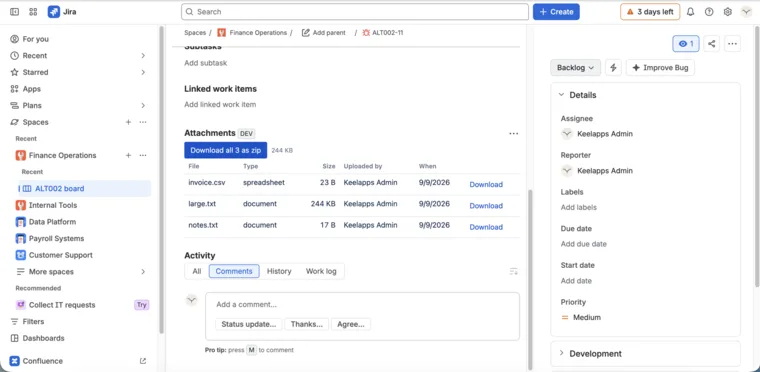
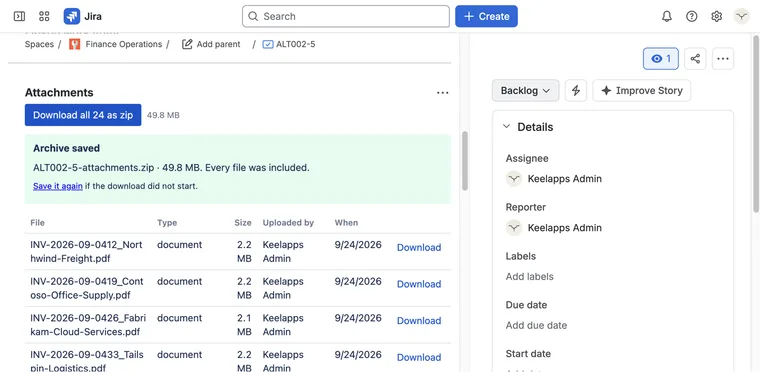
Satchel for Jira's page opens on the product demo
The showcase is the click-to-load player for FPh4vmKqxnw, with the production screenshot as its poster — the old image was the development install, with its DEV badge and three test files. The VideoObject gives the home card its demo length.

diff --git a/satchel/index.html b/satchel/index.html
@@ -52,6 +52,15 @@
           "@type": "Organization",
           "name": "Keelapps",
           "url": "https://keelapps.app/"
+        },
+        "video": {
+          "@type": "VideoObject",
+          "name": "Satchel for Jira — download every attachment as one zip",
+          "description": "Zip every attachment on a Jira issue, a JQL result or a whole project, foldered by issue key. Then see what is in there: duplicate candidates, storage by uploader, the biggest files, CSV. The archive is built in your browser.",
+          "thumbnailUrl": "https://keelapps.app/assets/screenshots/satchel-issue-panel.png",
+          "uploadDate": "2026-09-24T20:58:09+03:00",
+          "duration": "PT1M7S",
+          "embedUrl": "https://www.youtube-nocookie.com/embed/FPh4vmKqxnw"
         }
       }
     </script>
@@ -131,15 +140,22 @@
       </section>
 
       <figure class="showcase" id="demo">
-        <img
-          src="/assets/screenshots/satchel-issue-panel.png"
+        <iframe
+          class="showcase__player"
+          src="https://www.youtube-nocookie.com/embed/FPh4vmKqxnw"
+          srcdoc="<style>*{margin:0;padding:0}html,body{height:100%;overflow:hidden;background:#0F2536}a{display:block;height:100%;position:relative}img{display:block;width:100%;height:100%;object-fit:cover}span{position:absolute;inset:0;margin:auto;width:5rem;height:5rem;border-radius:50%;background:rgba(15,37,54,.86);color:#F4EFE6;display:grid;place-items:center;font:2rem/1 sans-serif}a:hover span{background:rgba(15,37,54,1)}</style><a href='https://www.youtube-nocookie.com/embed/FPh4vmKqxnw?autoplay=1' aria-label='Play the Satchel for Jira product demo'><img src='/assets/screenshots/satchel-issue-panel.png' alt=''><span>&#9654;</span></a>"
           width="1840"
           height="900"
-          alt="The Satchel panel on a Jira issue listing forty-five attachments with sizes and a single Download all as zip button"
-          decoding="async"
-        />
+          title="Satchel for Jira — download every attachment as one zip (product demo)"
+          loading="lazy"
+          allow="autoplay; encrypted-media; picture-in-picture; fullscreen"
+          allowfullscreen
+          referrerpolicy="strict-origin-when-cross-origin"
+        ></iframe>
         <figcaption>
-          Every attachment on the issue, in one zip.
+          Twenty-four attachments on one issue, one button, and a line that says every file
+          made it in. The archive is built in your browser.
+          <a href="https://www.youtube.com/watch?v=FPh4vmKqxnw">Watch on YouTube</a>.
         </figcaption>
       </figure>
 

diff --git a/index.html b/index.html
@@ -235,6 +235,7 @@
             <p class="app-card__name">Satchel for Jira</p>
             <p class="app-card__links">
               <a href="/satchel/">Product page</a>
+              <a href="/satchel/#demo"><svg viewBox="0 0 10 10" aria-hidden="true"><path d="M2 1.2 8.6 5 2 8.8Z" fill="currentColor" /></svg>Demo 1:07</a>
               <a href="/satchel/docs/">Docs</a>
             </p>
           </li>
